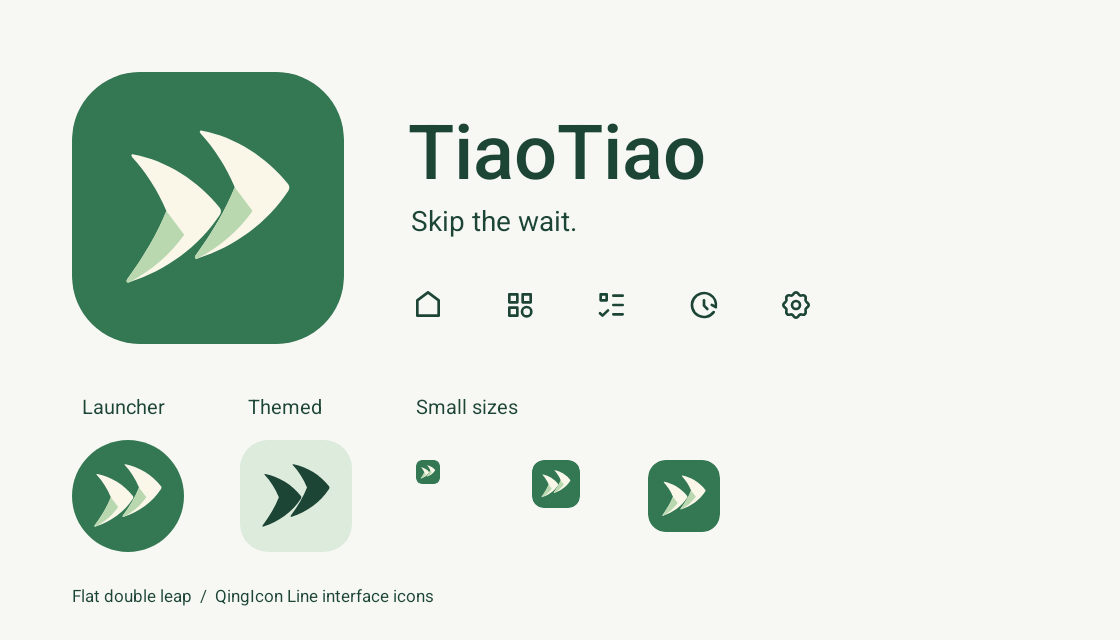
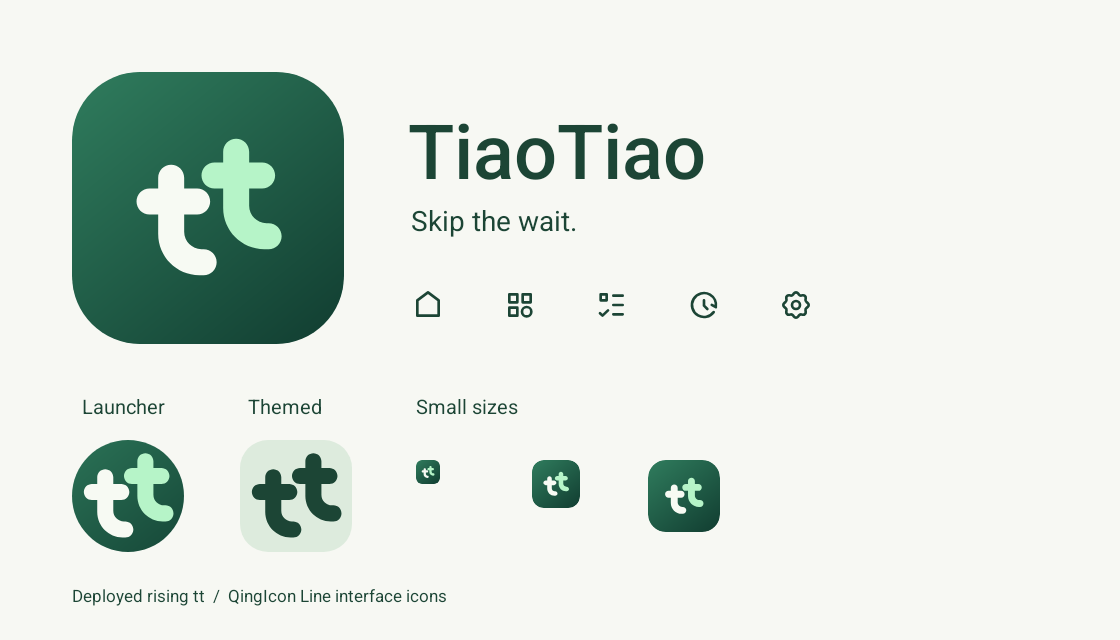
<分支名>: Update code structure and improve readability

diff --git a/app/src/main/kotlin/com/haibo/tiaotiao/service/AutoLearning.kt b/app/src/main/kotlin/com/haibo/tiaotiao/service/AutoLearning.kt
@@ -99,7 +99,7 @@ class AutoLearning(private val service: SkipAccessibilityService,
                 repository.reportDetection(screen.packageName,"已自动记录未点击广告的显示时长，用于排除自然结束")
                 return
             }
-            if (adScene==null && frame.signals.advertisement) { adScene=AdRecognition.scene(screen);adSeenAt=frame.at }
+            if (adSeenAt==0L && frame.signals.advertisement) adSeenAt=frame.at
             val signals="ad=${frame.signals.advertisement},skip=${frame.signals.skips.size},home=${frame.signals.home},timer=${frame.signals.countdown}"
             if (lastSignals!=signals) {
                 lastSignals=signals;repository.reportDetection(screen.packageName,"端侧 AI 已读取画面：广告标志=${frame.signals.advertisement}，跳过目标=${frame.signals.skips.size}，首页=${frame.signals.home}")
@@ -122,6 +122,10 @@ class AutoLearning(private val service: SkipAccessibilityService,
                     targetHash=frame.patch(skip),label="skip",source="bundled-ocr-demo",createdAt=System.currentTimeMillis())
                 repository.putVisual(rule)
             }
+            if(rule!=null && adScene!=rule.behavior()) {
+                if(adScene!=null || adSeenAt==0L) adSeenAt=frame.at
+                adScene=rule.behavior()
+            }
             if (rule != null && (skip==null || stable || rule.nodeTarget?.let {AdRecognition.matchesNode(it,screen)}==true) && SystemClock.elapsedRealtime()-frame.at<1200) {
                 if(repository.rules.value.any {it.packageName==screen.packageName && it.versionCode==screen.versionCode &&
                     it.status==RuleStatus.DISABLED && it.target.bounds.near(rule.target)}) {
@@ -132,9 +136,8 @@ class AutoLearning(private val service: SkipAccessibilityService,
                     if(!reported) {reported=true;repository.reportDetection(screen.packageName,"Jev 候选已缓存；自动尝试及独立结果复核需要 Vercel 视觉服务")}
                     return
                 }
-                val baseline=repository.visualBaseline(AdRecognition.scene(screen))
+                val baseline=repository.visualBaseline(rule.behavior())
                 if (!demo(screen) && frame.signals.countdown==null && baseline==0L && rule.evidence.any { it.timingBasis=="unknown" }) {
-                    if (adScene==null) { adScene=AdRecognition.scene(screen);adSeenAt=frame.at }
                     return // Observe one natural ending; do not infer causality from a disappearing page alone.
                 }
                 attempts=true

diff --git a/app/src/androidTest/kotlin/com/haibo/tiaotiao/UniversalLearningFlowTest.kt b/app/src/androidTest/kotlin/com/haibo/tiaotiao/UniversalLearningFlowTest.kt
@@ -97,6 +97,7 @@ class UniversalLearningFlowTest {
         await("旧服务停止") {SkipAccessibilityService.instance==null}
         app.visualLearner.close()
         context.getSharedPreferences("visual_cache",android.content.Context.MODE_PRIVATE).edit().clear().commit()
+        context.getSharedPreferences("visual_baselines",android.content.Context.MODE_PRIVATE).edit().clear().commit()
         app.visualLearner=VisualLearner(context,repository,{JevClient(jevHttp)},{VisualClient(visionHttp)})
         app.visualLearner.clearPending()
         listOf(alpha,beta).forEach {shell("run-as $it rm -f files/clicks")}
@@ -145,12 +146,20 @@ class UniversalLearningFlowTest {
             val beforeImages=recognitions.get();val beforeNodes=calls[beta]?.get()
             open(beta,canvas=true)
             await("无广告和跳过文字的纯图像关闭") {clicks(beta)==2}
-            await("图像方案自动检查") {repository.visualRules.value.any {it.packageName==beta && it.successfulSessions()==1}}
+            await("无倒计时的首次检查保留候选") {repository.visualRules.value.any {it.packageName==beta && it.evidence.any {proof -> proof.timingBasis=="unknown"}}}
+            val imageRule=repository.visualRules.value.first {it.packageName==beta}
+            assertEquals("页面消失不能单独证明提前关闭",0,imageRule.successfulSessions())
             assertTrue(recognitions.get()>beforeImages)
             assertEquals("没有控件时不向 Jev 编造目标",beforeNodes,calls[beta]?.get())
             val cachedImageCalls=recognitions.get()
             leave();open(beta,canvas=true)
+            await("无倒计时场景自动观察自然结束") {repository.visualBaseline(imageRule.behavior())>0}
+            assertEquals("建立基线时不点击",2,clicks(beta))
+            leave();open(beta,canvas=true)
             await("纯图像广告复用缓存") {clicks(beta)==3}
+            await("图像方案自动检查") {repository.visualRules.value.any {it.packageName==beta && it.successfulSessions()==1}}
+            leave();open(beta,canvas=true)
+            await("纯图像广告再次复用") {clicks(beta)==4}
             await("纯图像方案跨会话启用") {repository.visualRules.value.any {it.packageName==beta && it.active()}}
             assertEquals("已知图像目标不应重复识别",cachedImageCalls,recognitions.get())
         } finally {

diff --git a/test-app/src/main/kotlin/com/haibo/tiaotiao/fixture/FixtureActivity.kt b/test-app/src/main/kotlin/com/haibo/tiaotiao/fixture/FixtureActivity.kt
@@ -62,7 +62,7 @@ class FixtureActivity : Activity() {
         setContentView(root)
         root.sendAccessibilityEvent(android.view.accessibility.AccessibilityEvent.TYPE_WINDOW_CONTENT_CHANGED)
     }
-    /** No accessible controls and no words saying advertisement or skip. */
+    /** No accessible controls, advertisement/skip labels, or visible countdown. */
     private inner class ImageAdvertisement : View(this@FixtureActivity) {
         private var remaining=8
         private var showing=true
@@ -80,7 +80,6 @@ class FixtureActivity : Activity() {
                 paint.color=Color.WHITE;paint.strokeWidth=7f
                 c.drawLine(width*.88f,height*.05f,width*.93f,height*.09f,paint)
                 c.drawLine(width*.93f,height*.05f,width*.88f,height*.09f,paint)
-                paint.textSize=52f;c.drawText("${remaining}秒",width*.7f,height*.08f,paint)
             } else {
                 paint.color=Color.BLACK;paint.textSize=64f
                 c.drawText("首页",width*.13f,height*.9f,paint);c.drawText("我的",width*.7f,height*.9f,paint)

diff --git a/app/src/androidTest/kotlin/com/haibo/tiaotiao/RuleUiFlowTest.kt b/app/src/androidTest/kotlin/com/haibo/tiaotiao/RuleUiFlowTest.kt
@@ -207,6 +207,8 @@ class RuleUiFlowTest {
     }
     private fun click(text: String) {
         waitUntil {find(text)!=null}
+        instrumentation.waitForIdleSync()
+        runCatching {automation.waitForIdle(100,1500)}
         var node=requireNotNull(find(text))
         repeat(6) {
             if(node.isClickable) {assertTrue(node.performAction(AccessibilityNodeInfo.ACTION_CLICK));return}
@@ -280,7 +282,7 @@ class RuleUiFlowTest {
         canvas.drawText("Small sizes",416f,414f,paint)
         listOf(24,48,72).forEachIndexed {i,size -> tile(canvas,416+i*116,460,size)}
         paint.textSize=17f
-        canvas.drawText("Flat double leap  /  QingIcon Line interface icons",72f,602f,paint)
+        canvas.drawText("Deployed rising tt  /  QingIcon Line interface icons",72f,602f,paint)
         save(board,"tiaotiao-brand-board")
     }
     private fun screenshot(name: String) {

diff --git a/app/src/main/kotlin/com/haibo/tiaotiao/service/SkipAccessibilityService.kt b/app/src/main/kotlin/com/haibo/tiaotiao/service/SkipAccessibilityService.kt
@@ -188,6 +188,10 @@ class SkipAccessibilityService : AccessibilityService() {
                 try {root?.packageName?.toString()} finally {@Suppress("DEPRECATION") root?.recycle()}
             }} catch(c: CancellationException) {throw c} catch(_: Exception) {null} ?: return@launch
             if(ownerRevision!=revision || selectedWindow(windows)?.id!=window.id) return@launch
+            if(knownOwner?.second!=owner) {
+                autoLearning?.leaving(owner);scanJob?.cancel();nodeRead?.cancel()
+                clearNodes();cachedVersion=null;nextNodeRead=0
+            }
             knownOwner=window.id to owner
             if(owner!=packageName && owner !in repository.settings.value.packages) {
                 autoLearning?.leaving(owner);gate.observeWindow(owner,true,SystemClock.elapsedRealtime())

diff --git a/README.md b/README.md
@@ -67,14 +67,14 @@ Android 11 / API 30 起，对所有已勾选应用使用同一条管线；没有
 3. 同时用随包 ML Kit OCR 检查画面，服务连接时通过合成图片预热。没有可读控件或 Jev 不确定时，Vercel 视觉模型补充识别；不要求画面出现“广告”或“跳过”文字。已由 AI 确认的图像需要同时匹配当前上下文和目标图像特征，不能仅凭相同坐标复用。
 4. 本轮节点和图片学习合计最多 3 个请求，其中 Jev 最多 2 个；相同上下文有持久去重。学习不等待前台开屏继续存在，离开应用后仍能缓存结果。目标应用、版本、窗口、尺寸和当前证据重新匹配后才尝试；过期结果不能点击后台应用或新的窗口。
 5. 点击优先使用近期快照中的原生控件，不为寻找控件再次遍历整树；没有可关联控件时才使用受限手势。每个会话最多尝试一次，原生控件拒绝后不再换手势重复点击。普通已验证规则优先本地匹配，原目标暂时移动时继续等本地匹配，不重复调用 Jev；用户停用的目标不会在后台重新启用。
-6. 点击后检查两帧页面变化和广告/目标消失，再由独立视觉请求排除详情、购买、登录和系统提示。倒计时或已观察的自然结束基线用于区分提前关闭与自然结束；没有计时证据的首轮可以尝试，但不计为验证成功，后续自动观察基线。两个不同会话同时取得 AI 与时序证据后才启用。
+6. 点击后检查两帧页面变化和广告/目标消失，再由独立视觉请求排除详情、购买、登录和系统提示。倒计时或已观察的自然结束基线用于区分提前关闭与自然结束；没有计时证据的首轮可以尝试，但不计为验证成功，后续自动观察一次自然结束。基线绑定具体方案的结构/图像证据和目标，纯图像、没有广告文字的场景也能建立基线。两个不同会话同时取得 AI 与时序证据后才启用。
 7. 已启用规则可本地复用；结果检查结合当前首页信号或经 AI 接受的稳定首页局部特征。结果不确定时按配置交给 AI 复核；云端未就绪且本地证据不足时暂停复用，不继续盲点。
 
 Jev 沿用已配置的 TypeSafe 或 Vercel 服务。**完整的自动尝试与独立视觉结果检查目前需要 Vercel 网关**，视觉模型默认 `google/gemini-2.5-flash-lite`；TypeSafe 直连可以提前分析并缓存控件候选。只向所选服务发送对应密钥，配置切换与后台任务隔离。云端分析开关独立控制所有新请求。
 
 `files/visual_rules.json` 使用智能规则 schema 2，兼容读取 schema 1；保留包名、版本、目标、结构/图像匹配证据及自动验证记录，最多 500 条 / 4 MB。普通规则继续使用 `files/rules.json` 的 schema 1，最多 500 条 / 1 MB。保留旧规则的语义指纹和验证记录，新增 AI 信号不会让原有确认失效；实际界面、版本或安全条件变化时重新匹配或学习。导入仍清除外部验证并要求本机 AI 重新识别。
 
-原始截图只在内存中处理，缓存和发送的是遮挡非必要 OCR 文字后的图片；最多 8 份，成功后删除，未识别画面在应用运行清理时按 24 小时过期。遮挡不等同完整个人信息识别，图片不加入规则分享或 WebDAV 同步。用户明确停用的方案不会自动恢复。
+原始截图只在内存中处理，缓存和发送的是遮挡非必要 OCR 文字后的图片；从长句抽取到“登录”等语义词，不会让整条原文免于遮挡。最多 8 份，成功后删除，未识别画面在应用运行清理时按 24 小时过期。遮挡不等同完整个人信息识别，图片不加入规则分享或 WebDAV 同步。用户明确停用的方案不会自动恢复。
 
 首页“智能视觉演示”验证本地 OCR 和自动检查；另外的 `test-app` 模块只为模拟器构建两款不同包名测试应用，生产 APK 不依赖它。回归覆盖陌生应用首次关闭、260 余节点的深层内容、无文字关闭控件、没有“广告/跳过”文字且没有可读控件的纯图像、晚到结果下次复用、登录页排除以及关闭云端后的复用。测试注入模拟模型响应，不代表真实模型的识别准确率或响应速度。
 

diff --git a/artifacts/VERIFICATION.md b/artifacts/VERIFICATION.md
@@ -2,6 +2,21 @@
 
 日期按各版本记录，时区 Asia/Shanghai。
 
+## 0.3.0 通用自动学习与提前识别
+
+日期：2026-11-02。
+
[1 lines of base64/hex data omitted]
+- 所有已选应用使用同一条自动学习管线，生产代码没有大麦或知乎等第三方应用的包名分支。第一份有界节点快照即可交给 Jev，候选包括关闭、叉号和无文字小控件；OCR 与视觉补充识别不要求出现“跳过”或“广告”文字。
+- 节点在 IO 中按广度优先读取，保留 160 节点 / 150 ms 遍历预算，大型内容子树不会优先耗尽关闭按钮所在同层的检查机会。原生点击复用近期快照的节点句柄；启动窗口截图回调超过 700 ms 时释放等待并重试，晚到位图会释放。单次系统 Binder 调用仍可能超时，不能将预算理解为所有系统调用的绝对时限。
+- 修复上一应用已点击状态影响新应用重试，以及窗口归属变化后的旧扫描问题。后台 AI 结果可以缓存，但每次执行仍检查当前应用、版本、窗口、尺寸、上下文和目标；已知方案直接复用，关闭云端时不发送新请求。网络失败使用短退避，与正常结果的去重分开。
+- 无倒计时的首轮可以尝试，AI 确认页面变化后仍不直接计为提前关闭；自动观察一次自然结束，时长基线绑定具体方案，后续以两个不同会话的 AI 与时序证据启用。完整自动验证使用 Vercel 视觉服务；TypeSafe 直连可提前分析和缓存控件。
+- 智能规则 schema 2 兼容 schema 1，普通规则保留旧语义指纹；匹配目标使用与学习一致的 JPEG 预处理。并发结果更新不会覆盖用户暂停。OCR 长句抽取到语义词时不会保留整条原文，图片遮挡仍不是完整的个人信息识别。
+- 核心 JVM 47 项、Android JVM 15 项通过；APK、测试 APK、两个隔离测试应用构建通过。Lint Error/Fatal 0，Warning 31。独立 API 36 模拟器完整运行 `OK (9 tests)`，74.752 秒，其中按需性能采样默认跳过，8 项功能用例通过；本轮未重新测量滚动性能。
+- 通用集成回归使用两个不同包名、260 余节点的深层内容及无文字原生关闭按钮，覆盖首次尝试、缓存零重复识别、登录页排除、故意延迟的 Jev 结果离开后缓存、下次复用与关闭云端后离线复用。另有无可读控件、无广告/跳过文字、无可见倒计时的纯画布：首轮关闭保留候选、次轮不点击并建立基线、随后两轮自动验证启用。模型响应为隔离模拟，不代表真实 Jev 的准确率或网络速度。
+- 应用筛选回归首次出现连续开关操作的时序失败，自动化在动作前等待 Compose 与无障碍界面空闲后，完整复查通过；保留原断言，未改变产品筛选逻辑。已归档 12 张合成界面截图至 `screenshots/0.3.0/`，品牌预览恢复为实际部署的双 t 资源。
+- 已通过同一已配对小米手机的无线 ADB 执行 `install -r`，返回 `Success`，未清除应用数据；系统确认 versionName 0.3.0 / versionCode 15，手机 base.apk 与交付文件 SHA-256 一致，启动主界面返回 `Status: ok`。测试 APK 和两款夹具只安装在模拟器；未读取手机真实密钥或截取第三方页面。真实广告效果仍需继续观察，未以模拟响应替代真机准确率验证。未执行 commit 或 push。
+
 ## 0.2.6 平面双跃 Logo
 
 日期：2026-11-02。
